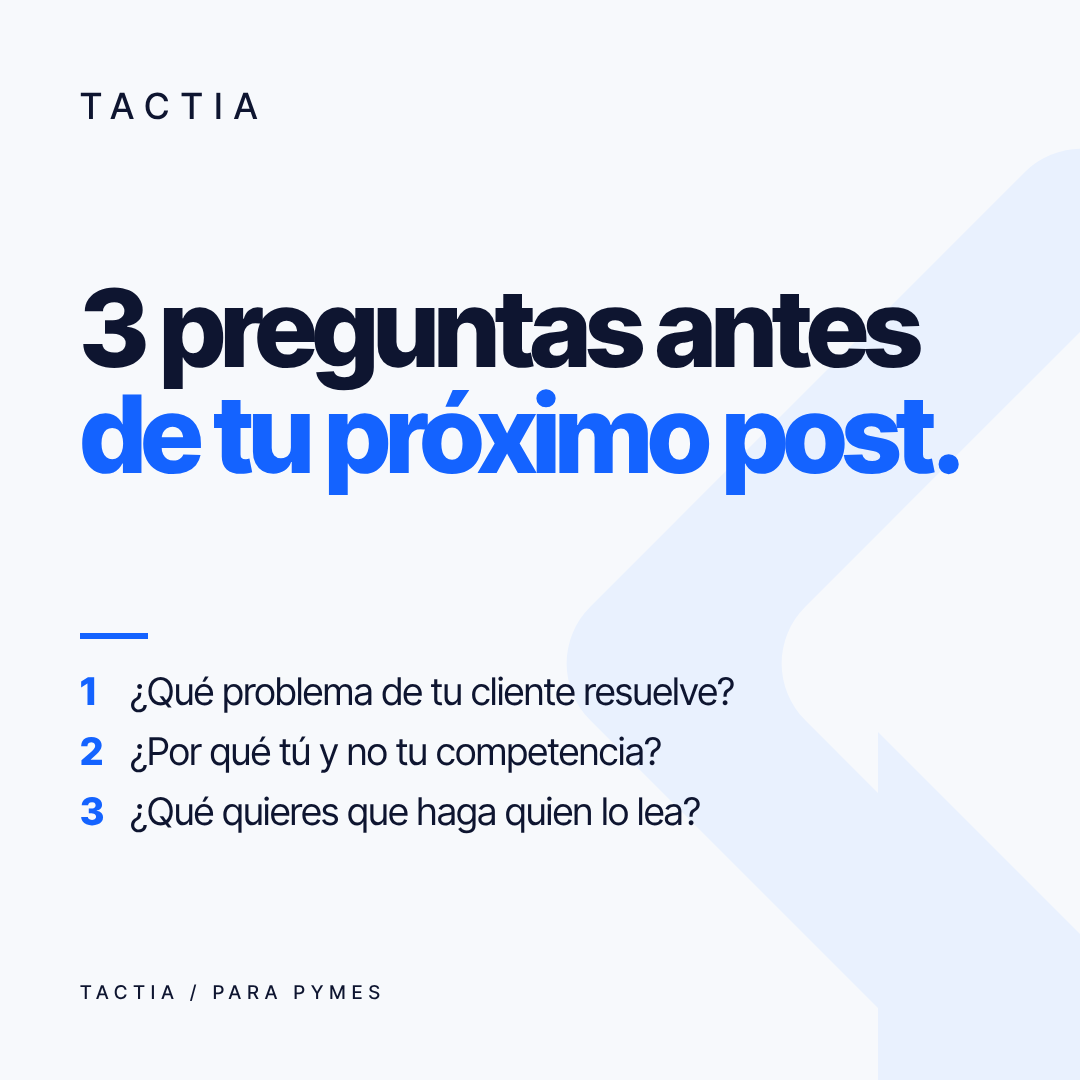
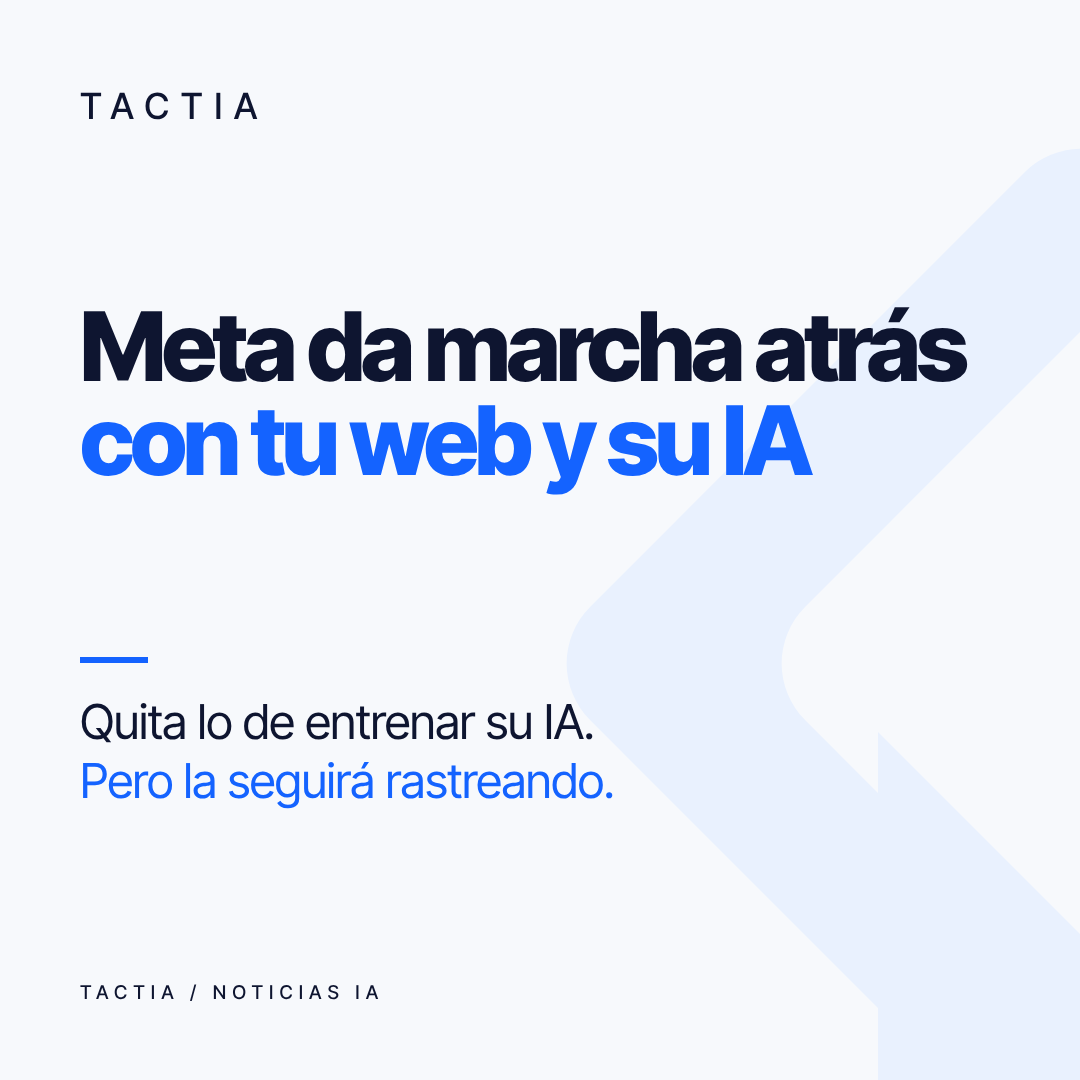
Imagen LinkedIn 21 oct (Meta y sus condiciones) y guía de edición: estilo aprobado
Claude-Session: https://claude.ai/code/session_01Mu496ufn7VbF3iRbuYovEE

Changed region(s): [[0.0611, 0.2444, 0.9167, 0.4583], [0.0611, 0.5806, 0.6722, 0.7639], [0.2139, 0.9167, 0.3361, 0.9472]]

diff --git a/tactia-media/herramientas/ESTILO_EDICION.md b/tactia-media/herramientas/ESTILO_EDICION.md
@@ -19,10 +19,19 @@ Borja: «voy a empezar a hacer esto». Este es el estilo que manda a partir de a
 
 Para conseguirlo, Borja tiene que grabar por cada vídeo: la toma principal y entre 5 y 8 planos recurso de 3-5 s que ilustren el guion.
 
+## ESTILO APROBADO (18 oct, Borja: «ese es los vídeos que yo quiero que hagas con todo… es la hostia») · Espía v4
+- **Imagen a cámara**: su fondo tal cual (nada de luz azul ni oscurecer el fondo); sobre él, luz algo más cálida (`e.style = "warm"`: máscara de la persona, balance cálido suave, viñeta ligera, grano fino).
+- **Sin fotos de banco ni iconos sueltos ni destellos** (`e.clean = True`).
+- **Subtítulos** pequeños, una palabra cada vez, crema; la palabra clave en cursiva serif amarilla (`e.capstyle = "gallo"`).
+- **Gancho**: frase apilada palabra a palabra sobre él, sin franja oscura (`scrim=False`), tamaños 64 / 104 / 128.
+- **Partes leídas → escenas animadas de Remotion** (`remotion/tactia-video`, composición `Step` y escenas propias): título que entra palabra a palabra sincronizado con la voz + un elemento animado (móvil genérico con chat, lista que se tacha, comparativa, barras, contador, calendario, ticket, story…). Paleta oscura con brillo verde azulado/ámbar, Inter Tight + Instrument Serif. Nunca logos de marcas.
+- Herramienta: `e.scene("Step", clave, desde, hasta, kicker=..., title=[[...]], widget={...})` con tiempos de origen (`e.S(clave, "palabra")`); `gallo.py` renderiza las escenas (render.mjs) y las monta como clips.
+- Pantallas de palabras blanco / verde azulado de 0,5-2 s solo para frases cortas («de manera gratuita», «¿Cómo copiarlo?»).
+
 ## Regla fija (17 oct, Borja)
 - **Borja solo sale en pantalla cuando mira a cámara.** Todo lo que viene de las grabaciones leídas («Guion N – voz») va SIEMPRE tapado con pantallas completas (palabra a palabra en blanco / verde azulado, o gráficos del paso). Nunca se le ve leyendo.
 - También dentro de las tomas a cámara: cada momento en que no mira al objetivo (detector de mirada `gaze.py` + revisión a ojo, `spec_util.away`) se tapa igual.
-- Nunca solo texto: las pantallas llevan objetos 3D (Fluent Emoji 3D, licencia MIT) que flotan; fotos reales solo si Borja las manda.
+- Nunca solo texto: las partes leídas van con escenas animadas (ver «Estilo aprobado»); objetos 3D (Fluent Emoji 3D, licencia MIT) solo dentro de esas escenas; fotos reales solo si Borja las manda.
 - Herramienta: `gallo.py` con `e.voice = {"clave de la grabación leída"}`: rellena automáticamente cualquier hueco sin pantalla.
 
 ## Lo que hacen las referencias anteriores (Solazzo y @only.three3) (observado fotograma a fotograma)
